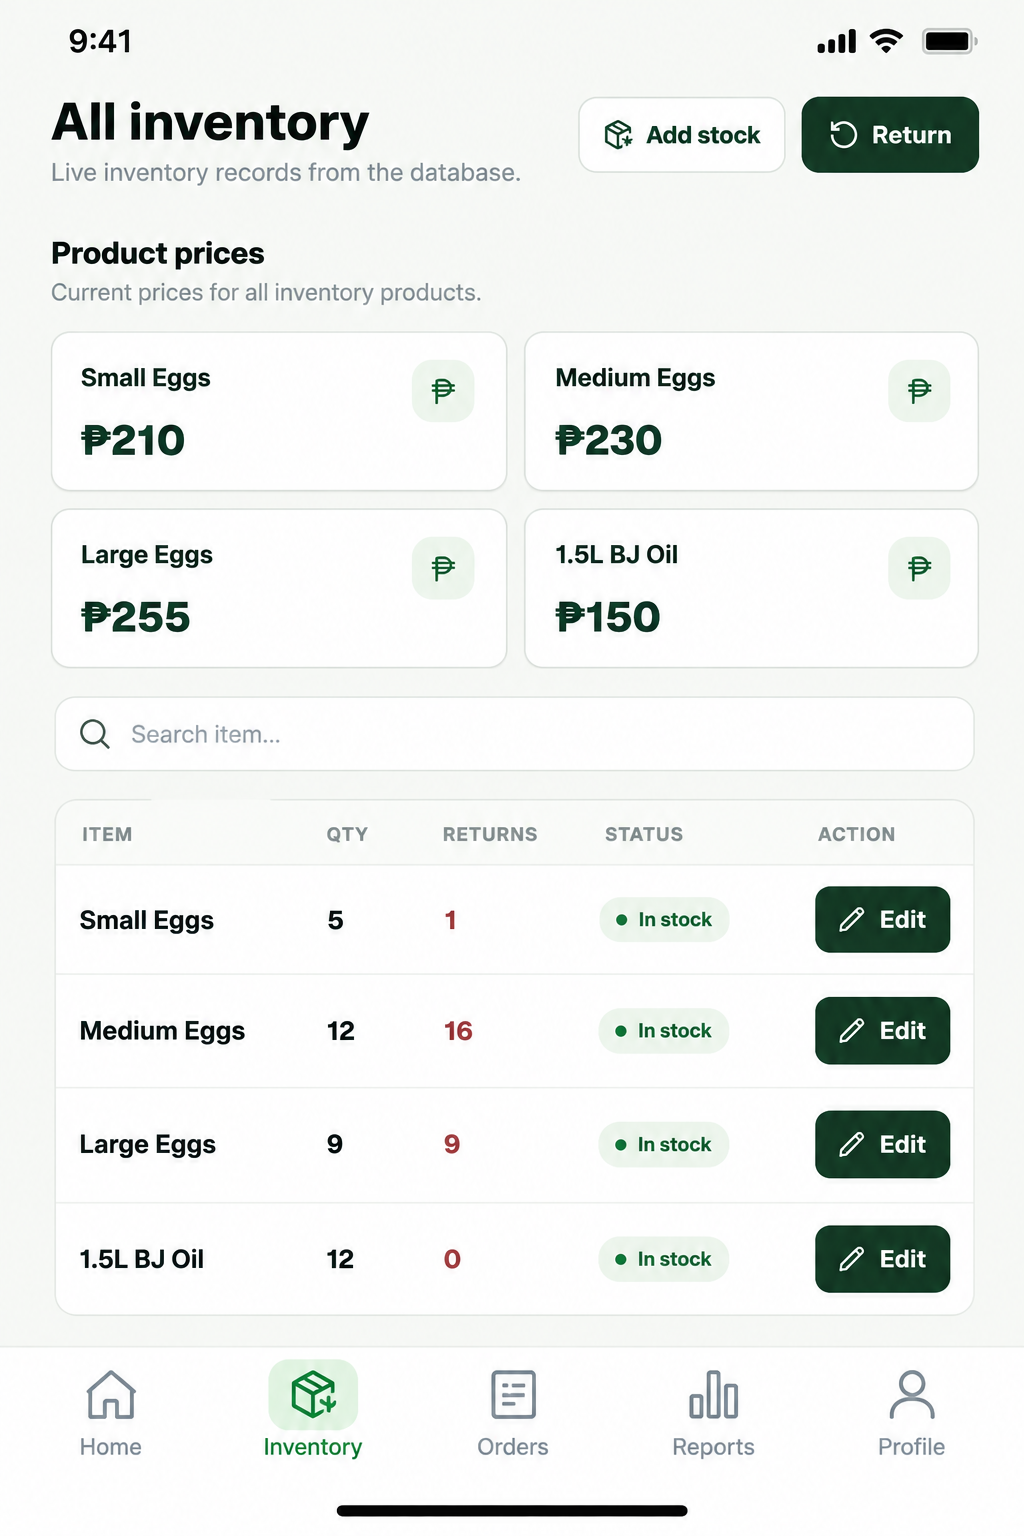
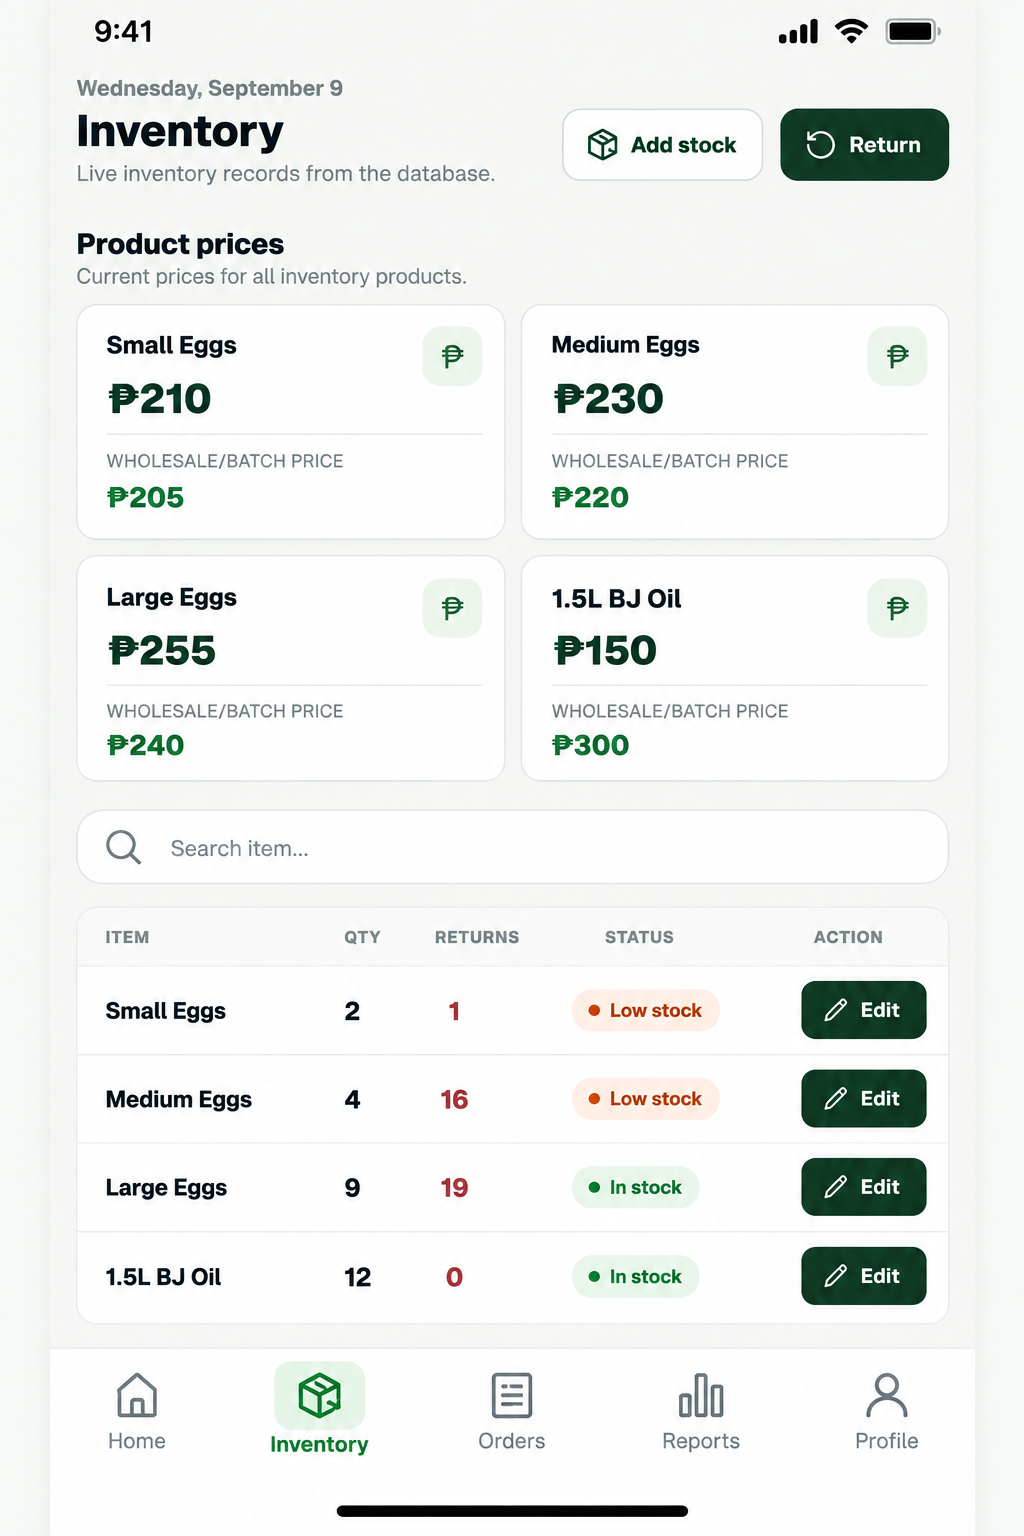
feat: add wholesale pricing to inventory, update product names and prices, and implement responsive compact view for sales list

diff --git a/mobile/components/orders-screen.tsx b/mobile/components/orders-screen.tsx
@@ -1,5 +1,12 @@
 import { Ionicons } from '@expo/vector-icons';
-import { Pressable, ScrollView, StyleSheet, Text, View } from 'react-native';
+import {
+  Pressable,
+  ScrollView,
+  StyleSheet,
+  Text,
+  useWindowDimensions,
+  View,
+} from 'react-native';
 
 import { recentSales } from '../data/sales';
 import type { SaleActivity } from '../types/sales';
@@ -9,42 +16,56 @@ interface OrdersScreenProps {
 }
 
 interface SaleRowProps {
+  isCompact: boolean;
   sale: SaleActivity;
   onEdit: () => void;
 }
 
-function SaleRow({ sale, onEdit }: SaleRowProps) {
+function SaleRow({ isCompact, sale, onEdit }: SaleRowProps) {
   return (
-    <View style={styles.saleRow}>
-      <View style={styles.saleIcon}>
-        <Ionicons name="arrow-up-outline" size={32} color="#3c9654" />
+    <View style={[styles.saleRow, isCompact && styles.compactSaleRow]}>
+      <View style={[styles.saleIcon, isCompact && styles.compactSaleIcon]}>
+        <Ionicons
+          name="arrow-up-outline"
+          size={isCompact ? 27 : 32}
+          color="#3c9654"
+        />
       </View>
 
-      <View style={styles.saleDetails}>
-        <Text style={styles.saleTitle}>Sale · {sale.itemName}</Text>
-        <Text style={styles.customerName}>{sale.customerName}</Text>
-      </View>
+      <View
+        style={[styles.saleContent, isCompact && styles.compactSaleContent]}
+      >
+        <View style={styles.saleDetails}>
+          <Text style={styles.saleTitle}>Sale · {sale.itemName}</Text>
+          <Text style={styles.customerName}>{sale.customerName}</Text>
+        </View>
 
-      <View style={styles.saleAmount}>
-        <Text style={styles.quantity}>{sale.quantity}</Text>
-        <Text style={styles.priceSummary}>{sale.priceSummary}</Text>
-        <Text style={styles.dateTime}>{sale.dateTime}</Text>
+        <View
+          style={[styles.saleAmount, isCompact && styles.compactSaleAmount]}
+        >
+          <Text style={styles.quantity}>{sale.quantity}</Text>
+          <Text style={styles.priceSummary}>{sale.priceSummary}</Text>
+          <Text style={styles.dateTime}>{sale.dateTime}</Text>
+        </View>
       </View>
 
       <Pressable
         accessibilityRole="button"
         accessibilityLabel={`Edit sale for ${sale.itemName}`}
         onPress={onEdit}
-        style={styles.editButton}
+        style={[styles.editButton, isCompact && styles.compactEditButton]}
       >
         <Ionicons name="pencil-outline" size={18} color="#1d4c2d" />
-        <Text style={styles.editButtonText}>Edit</Text>
+        {!isCompact && <Text style={styles.editButtonText}>Edit</Text>}
       </Pressable>
     </View>
   );
 }
 
 export function OrdersScreen({ onShowUnavailableNotice }: OrdersScreenProps) {
+  const { width } = useWindowDimensions();
+  const isCompact = width < 430;
+
   return (
     <View style={styles.screen}>
       <ScrollView
@@ -76,6 +97,7 @@ export function OrdersScreen({ onShowUnavailableNotice }: OrdersScreenProps) {
 
           {recentSales.map((sale) => (
             <SaleRow
+              isCompact={isCompact}
               key={sale.id}
               sale={sale}
               onEdit={() => onShowUnavailableNotice('Sale editing')}
@@ -171,6 +193,12 @@ const styles = StyleSheet.create({
     paddingHorizontal: 18,
     paddingVertical: 18,
   },
+  compactSaleRow: {
+    alignItems: 'flex-start',
+    gap: 10,
+    paddingHorizontal: 14,
+    paddingVertical: 15,
+  },
   saleIcon: {
     width: 54,
     height: 54,
@@ -178,6 +206,23 @@ const styles = StyleSheet.create({
     justifyContent: 'center',
     borderRadius: 16,
     backgroundColor: '#eef7ee',
+  },
+  compactSaleIcon: {
+    width: 46,
+    height: 46,
+    borderRadius: 14,
+  },
+  saleContent: {
+    flex: 1,
+    minWidth: 0,
+    flexDirection: 'row',
+    alignItems: 'center',
+    gap: 8,
+  },
+  compactSaleContent: {
+    flexDirection: 'column',
+    alignItems: 'stretch',
+    gap: 8,
   },
   saleDetails: {
     flex: 1,
@@ -195,6 +240,9 @@ const styles = StyleSheet.create({
   },
   saleAmount: {
     alignItems: 'flex-end',
+  },
+  compactSaleAmount: {
+    alignItems: 'flex-start',
   },
   quantity: {
     color: '#121a15',
@@ -223,6 +271,10 @@ const styles = StyleSheet.create({
     borderColor: '#cfd9d0',
     borderRadius: 11,
     backgroundColor: '#ffffff',
+  },
+  compactEditButton: {
+    width: 44,
+    minHeight: 40,
   },
   editButtonText: {
     color: '#1d4c2d',

diff --git a/mobile/data/inventory.ts b/mobile/data/inventory.ts
@@ -7,10 +7,10 @@ const palmOilImage: ImageSourcePropType = require('../assets/inventory-palm-oil.
 const tuyoImage: ImageSourcePropType = require('../assets/inventory-tuyo.png');
 
 export const inventoryItems: InventoryItem[] = [
-  { id: 1, name: 'Eggs - Small', category: 'Eggs', price: '₱190.00', stock: '120 trays', stockLabel: 'In Stock', isLowStock: false, returnsCount: 1, image: eggsImage },
-  { id: 2, name: 'Eggs - Medium', category: 'Eggs', price: '₱205.00', stock: '85 trays', stockLabel: 'In Stock', isLowStock: false, returnsCount: 16, image: eggsImage },
-  { id: 3, name: 'Eggs - Large', category: 'Eggs', price: '₱240.00', stock: '12 trays', stockLabel: 'Low Stock', isLowStock: true, returnsCount: 9, image: eggsImage },
-  { id: 4, name: 'Eggs - XLarge', category: 'Eggs', price: '₱265.00', stock: '8 trays', stockLabel: 'Low Stock', isLowStock: true, returnsCount: 0, image: eggsImage },
-  { id: 5, name: 'Palm Oil (1.5L)', category: 'Groceries', price: '₱130.00', stock: '45 pcs', stockLabel: 'In Stock', isLowStock: false, returnsCount: 0, image: palmOilImage },
-  { id: 6, name: 'Tuyo (Bundle of 3)', category: 'Groceries', price: '₱130.00', stock: '67 packs', stockLabel: 'In Stock', isLowStock: false, returnsCount: 0, image: tuyoImage },
+  { id: 1, name: 'Small Eggs', category: 'Eggs', price: '₱210.00', wholesalePrice: '₱205.00', stock: '120 trays', stockLabel: 'In Stock', isLowStock: false, returnsCount: 1, image: eggsImage },
+  { id: 2, name: 'Medium Eggs', category: 'Eggs', price: '₱230.00', wholesalePrice: '₱220.00', stock: '85 trays', stockLabel: 'In Stock', isLowStock: false, returnsCount: 16, image: eggsImage },
+  { id: 3, name: 'Large Eggs', category: 'Eggs', price: '₱255.00', wholesalePrice: '₱240.00', stock: '12 trays', stockLabel: 'Low Stock', isLowStock: true, returnsCount: 9, image: eggsImage },
+  { id: 4, name: 'Eggs - XLarge', category: 'Eggs', price: '₱265.00', wholesalePrice: null, stock: '8 trays', stockLabel: 'Low Stock', isLowStock: true, returnsCount: 0, image: eggsImage },
+  { id: 5, name: '1.5L BJ Oil', category: 'Groceries', price: '₱150.00', wholesalePrice: '₱300.00', stock: '45 pcs', stockLabel: 'In Stock', isLowStock: false, returnsCount: 0, image: palmOilImage },
+  { id: 6, name: 'Tuyo (Bundle of 3)', category: 'Groceries', price: '₱130.00', wholesalePrice: null, stock: '67 packs', stockLabel: 'In Stock', isLowStock: false, returnsCount: 0, image: tuyoImage },
 ];

diff --git a/mobile/components/inventory-modals.tsx b/mobile/components/inventory-modals.tsx
@@ -15,7 +15,7 @@ function ModalHeader({ title, subtitle, showAddIcon = false, onClose }: { title:
 export function AddStockModal({ onClose, onComplete }: AddStockModalProps) {
   return <Modal transparent animationType="fade" onRequestClose={onClose}><Pressable style={styles.overlay} onPress={onClose}><Pressable accessibilityViewIsModal style={styles.card} onPress={() => undefined}>
     <ModalHeader title="Add Stock" subtitle="Add new stock to your inventory item" showAddIcon onClose={onClose} />
-    <View style={styles.productRow}><Image source={eggsImage} style={styles.productImage} resizeMode="cover" /><View><Text style={styles.productName}>Eggs - Medium</Text><Text style={styles.mutedText}>Eggs</Text><Text style={styles.productPrice}>₱205.00</Text></View></View>
+    <View style={styles.productRow}><Image source={eggsImage} style={styles.productImage} resizeMode="cover" /><View><Text style={styles.productName}>Medium Eggs</Text><Text style={styles.mutedText}>Eggs</Text><Text style={styles.productPrice}>₱230.00</Text></View></View>
     <Text style={styles.label}>Quantity to Add</Text><View style={styles.quantityRow}><View style={styles.quantityControl}><View style={styles.quantityButton}><Ionicons name="remove" size={25} color="#7e8995" /></View><Text style={styles.quantityValue}>10</Text><View style={[styles.quantityButton, styles.quantityButtonActive]}><Ionicons name="add" size={28} color="#258143" /></View></View><View style={styles.unitField}><Text style={styles.unitText}>trays</Text></View></View>
     <Text style={styles.label}>Unit Cost <Text style={styles.optional}>(Optional)</Text></Text><View style={styles.field}><Text style={styles.currency}>₱</Text><Text style={styles.placeholder}>0.00</Text></View>
     <Text style={styles.label}>Notes <Text style={styles.optional}>(Optional)</Text></Text><View style={styles.notesField}><Text style={styles.placeholder}>e.g. Received new delivery, supplier, etc.</Text><Text style={styles.count}>0/200</Text></View>

diff --git a/mobile/components/inventory-screen.tsx b/mobile/components/inventory-screen.tsx
@@ -19,7 +19,7 @@ const productPriceCards = [
   { item: inventoryItems[0], displayName: 'Small Eggs' },
   { item: inventoryItems[1], displayName: 'Medium Eggs' },
   { item: inventoryItems[2], displayName: 'Large Eggs' },
-  { item: inventoryItems[4], displayName: '1.5L Palm Oil' },
+  { item: inventoryItems[4], displayName: '1.5L BJ Oil' },
 ];
 
 function ProductPriceCard({ item, displayName }: ProductPriceCardProps) {
@@ -34,6 +34,12 @@ function ProductPriceCard({ item, displayName }: ProductPriceCardProps) {
         </View>
       </View>
       <Text style={styles.priceValue}>{item.price}</Text>
+      <View style={styles.wholesalePriceSection}>
+        <Text style={styles.wholesalePriceLabel}>Wholesale/Batch Price</Text>
+        <Text style={styles.wholesalePriceValue}>
+          {item.wholesalePrice}
+        </Text>
+      </View>
     </View>
   );
 }
@@ -224,8 +230,7 @@ const styles = StyleSheet.create({
   },
   priceCard: {
     width: '48%',
-    minHeight: 122,
-    justifyContent: 'space-between',
+    minHeight: 174,
     borderWidth: 1,
     borderColor: '#dce3dd',
     borderRadius: 15,
@@ -261,6 +266,26 @@ const styles = StyleSheet.create({
     color: '#173f28',
     fontSize: 28,
     fontWeight: '700',
+    marginTop: 12,
+  },
+  wholesalePriceSection: {
+    borderTopWidth: 1,
+    borderTopColor: '#e4e9e4',
+    marginTop: 12,
+    paddingTop: 10,
+  },
+  wholesalePriceLabel: {
+    color: '#74808a',
+    fontSize: 10,
+    fontWeight: '600',
+    letterSpacing: 0.35,
+    textTransform: 'uppercase',
+  },
+  wholesalePriceValue: {
+    color: '#258143',
+    fontSize: 20,
+    fontWeight: '700',
+    marginTop: 4,
   },
   searchBox: {
     height: 58,

diff --git a/mobile/types/inventory.ts b/mobile/types/inventory.ts
@@ -5,6 +5,7 @@ export interface InventoryItem {
   name: string;
   category: string;
   price: string;
+  wholesalePrice: string | null;
   stock: string;
   stockLabel: string;
   isLowStock: boolean;

diff --git a/frontend/components/inventory/overview.tsx b/frontend/components/inventory/overview.tsx
@@ -4,7 +4,6 @@ import {
   ArrowDownLeft,
   ArrowUpRight,
   CircleDollarSign,
-  PackageSearch,
   RotateCcw,
   ShoppingBag,
   TrendingUp,
